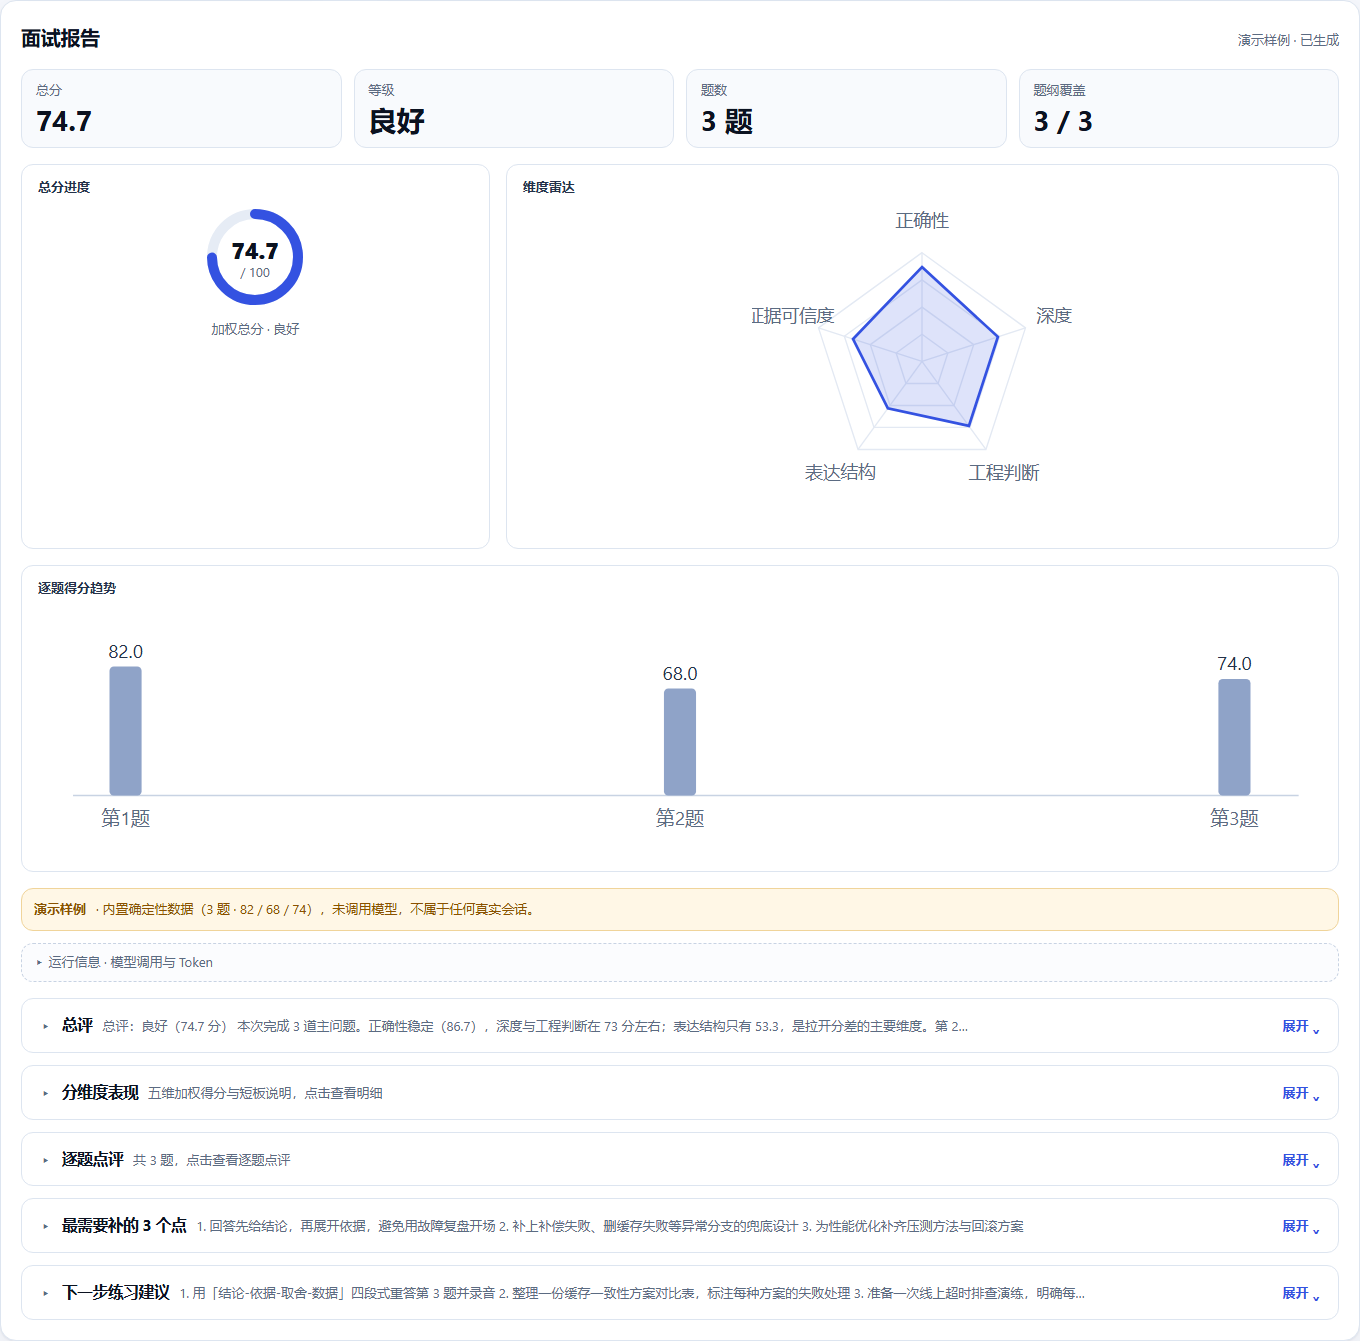
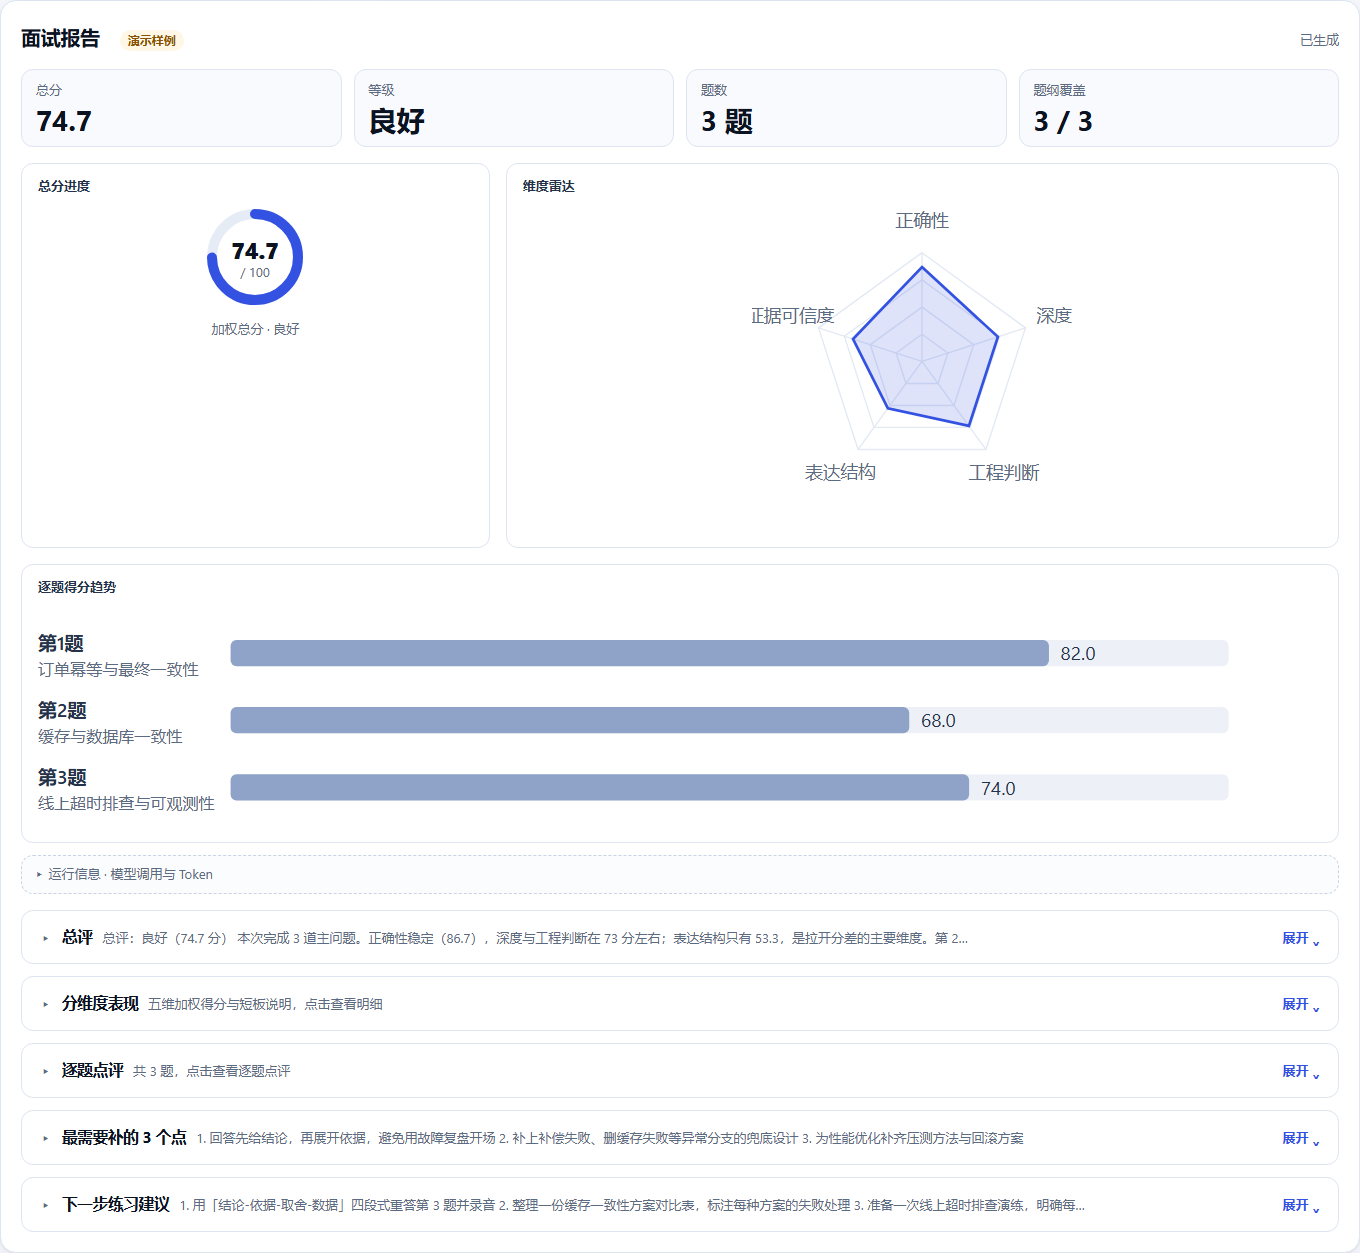
R3 polish: horizontal score trend and compact sample tags
Switch the per-question trend to horizontal bars with labels and tail values, and reduce repeated sample labels to corner tags while keeping the top banner.

diff --git a/internal/api/http/demo/app.js b/internal/api/http/demo/app.js
@@ -216,6 +216,11 @@
       .replace(/'/g, "&#39;");
   }
 
+  function truncateText(value, max) {
+    const chars = Array.from(String(value == null ? "" : value));
+    return chars.length > max ? chars.slice(0, max).join("") + "…" : chars.join("");
+  }
+
   function inline(text) {
     return escapeHtml(text)
       .replace(/\*\*(.+?)\*\*/g, "<strong>$1</strong>")
@@ -1146,22 +1151,24 @@
       return '<p class="decision-note">暂无逐题数据。</p>';
     }
     const width = 880;
-    const height = 176;
-    const base = 132;
-    const top = 24;
-    const barW = 22;
-    const step = list.length > 1 ? (width - 120) / (list.length - 1) : 0;
-    const bars = list.map((q, i) => {
+    const labelW = 132;
+    const valueW = 64;
+    const rowH = 46;
+    const top = 12;
+    const barH = 18;
+    const plotW = width - labelW - valueW;
+    const height = top + list.length * rowH + 6;
+    const rows = list.map((q, i) => {
       const score = Math.max(0, Math.min(100, Number(q.score || 0)));
-      const h = (score / 100) * (base - top);
-      const x = list.length > 1 ? 60 + i * step - barW / 2 : width / 2 - barW / 2;
-      const y = base - h;
-      return `<rect x="${x}" y="${y}" width="${barW}" height="${h}" rx="3" fill="#8fa3c8"></rect>` +
-        `<text x="${x + barW / 2}" y="${y - 6}" text-anchor="middle" font-size="13" fill="#24324a">${score.toFixed(1)}</text>` +
-        `<text x="${x + barW / 2}" y="${base + 20}" text-anchor="middle" font-size="13" fill="#5b6b82">第${q.seq}题</text>`;
+      const cy = top + i * rowH + rowH / 2;
+      const w = Math.max(2, (score / 100) * plotW);
+      return `<text x="0" y="${cy - 2}" font-size="13" font-weight="600" fill="#24324a">第${q.seq}题</text>` +
+        `<text x="0" y="${cy + 15}" font-size="11" fill="#5b6b82">${escapeHtml(truncateText(q.topic || "", 12))}</text>` +
+        `<rect x="${labelW}" y="${cy - barH / 2}" width="${plotW}" height="${barH}" rx="4" fill="#edf1f7"/>` +
+        `<rect x="${labelW}" y="${cy - barH / 2}" width="${w}" height="${barH}" rx="4" fill="#8fa3c8"/>` +
+        `<text x="${labelW + w + 8}" y="${cy + 5}" font-size="13" fill="#24324a">${score.toFixed(1)}</text>`;
     }).join("");
-    return `<svg viewBox="0 0 ${width} ${height}" width="100%" role="img" aria-label="逐题得分趋势">` +
-      `<line x1="24" y1="${base}" x2="${width - 16}" y2="${base}" stroke="#c8d3e3"/>${bars}</svg>`;
+    return `<svg viewBox="0 0 ${width} ${height}" width="100%" role="img" aria-label="逐题得分趋势">${rows}</svg>`;
   }
 
   function renderReportHero(structured, questions) {
@@ -1330,9 +1337,8 @@
     const questions = structured.questions || [];
     const scroll = !options || options.scroll !== false;
     reportPanel.hidden = false;
-    reportStatus.textContent = dto.sample
-      ? "演示样例 · 已生成"
-      : dto.degraded ? "已生成（降级拼装）" : "已生成";
+    reportStatus.textContent = dto.degraded ? "已生成（降级拼装）" : "已生成";
+    $("report-sample-tag").hidden = !dto.sample;
     renderReportHero(structured, questions);
     renderRunInfo(dto.sample ? { sample: true } : Object.assign({}, structured, state.reportCost || {}));
 
@@ -1341,13 +1347,6 @@
       sections.forEach((section) => reportSections.appendChild(reportSectionElement(section, questions)));
     } else if (dto.markdown) {
       reportSections.appendChild(reportSectionElement({ index: 0, title: "报告全文", markdown: dto.markdown }, questions));
-    }
-    if (dto.sample) {
-      const banner = document.createElement("div");
-      banner.className = "notice warn";
-      banner.style.gridColumn = "1 / -1";
-      banner.innerHTML = "<strong>演示样例</strong> · 内置确定性数据（3 题 · 82 / 68 / 74），未调用模型，不属于任何真实会话。";
-      reportCharts.appendChild(banner);
     }
     if (dto.degraded) {
       const banner = document.createElement("div");
@@ -1366,10 +1365,10 @@
 
   function sampleResultCard(q) {
     const el = buildResultCard(q);
-    const flag = document.createElement("div");
-    flag.className = "sample-flag";
-    flag.textContent = "演示样例 · 未调用模型";
-    el.prepend(flag);
+    const tag = document.createElement("span");
+    tag.className = "sample-corner";
+    tag.textContent = "演示样例";
+    el.appendChild(tag);
     return el;
   }
 
@@ -1600,6 +1599,7 @@
     runInfoBody.innerHTML = "";
     reportSections.innerHTML = "";
     reportStatus.textContent = "正在生成…";
+    $("report-sample-tag").hidden = true;
     $("session-meta").hidden = true;
     $("session-id").textContent = "";
     $("progress-strip").hidden = true;

diff --git a/internal/api/http/demo/style.css b/internal/api/http/demo/style.css
@@ -747,25 +747,24 @@ button:disabled { opacity: 0.55; cursor: not-allowed; transform: none; }
 .ring-label { font-size: 13px; fill: var(--muted); }
 .ring-caption { margin-top: 2px; font-size: var(--text-sm); color: var(--muted); }
 
-.sample-flag {
-  display: inline-block;
-  margin-bottom: 8px;
-  padding: 2px 10px;
+.sample-corner {
+  position: absolute;
+  top: 10px;
+  right: 12px;
+  padding: 1px 8px;
   border-radius: 999px;
   background: var(--warn-soft);
   color: var(--warn);
-  font-size: var(--text-sm);
+  font-size: 11px;
   font-weight: 700;
+  line-height: 1.6;
 }
-.sample-banner {
-  padding: var(--space-3) var(--space-4);
-  border: 1px dashed var(--line-strong);
-  border-radius: var(--radius-md);
-  background: #fbfcfe;
-  color: var(--ink-soft);
-  font-size: var(--text-sm);
+.sample-corner.inline {
+  position: static;
+  margin-left: 8px;
+  font-size: var(--text-xs);
 }
-.sample-banner strong { color: var(--warn); }
+.report-head #report-status { margin-left: auto; }
 
 .report-sections {
   display: grid;
@@ -935,7 +934,7 @@ button:disabled { opacity: 0.55; cursor: not-allowed; transform: none; }
 
 .result-slot { display: grid; gap: var(--space-3); }
 
-.result-card { padding: var(--space-4) var(--space-5); }
+.result-card { position: relative; padding: var(--space-4) var(--space-5); }
 .result-top {
   display: flex;
   align-items: center;

diff --git a/internal/api/http/demo/index.html b/internal/api/http/demo/index.html
@@ -144,6 +144,7 @@
 <section id="report-panel" class="panel report-panel" hidden>
   <div class="report-head">
     <h2>面试报告</h2>
+    <span id="report-sample-tag" class="sample-corner inline" hidden>演示样例</span>
     <div id="report-status" class="muted">正在生成…</div>
   </div>
   <div id="report-meta" class="report-meta"></div>
